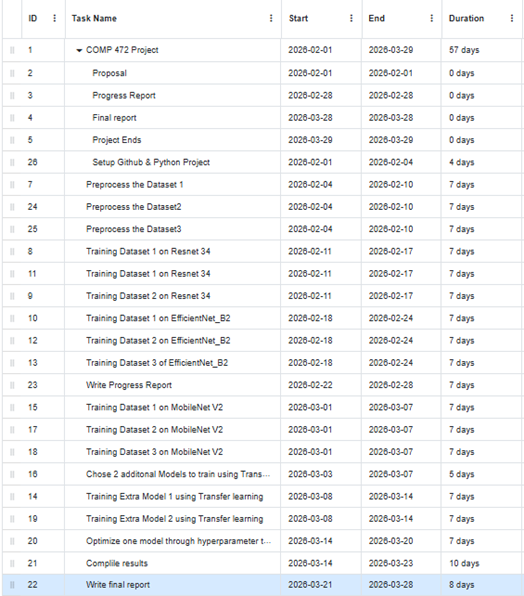
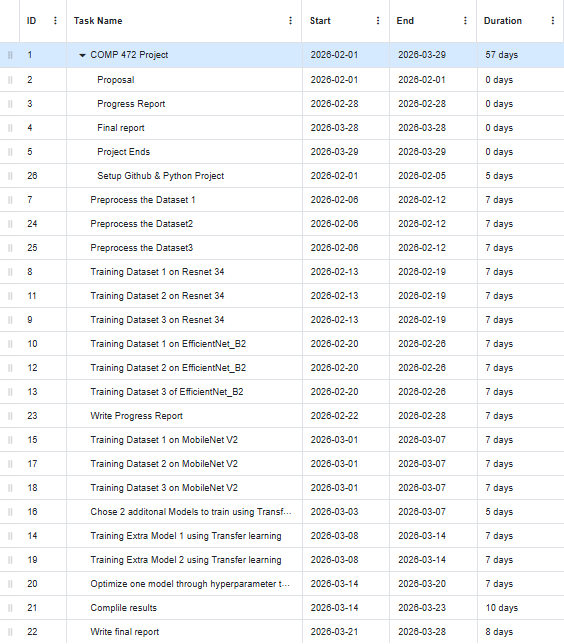
Add files via upload
Updated - non final - Proposal

diff --git a/Proposal/Proposal.tex b/Proposal/Proposal.tex
@@ -44,14 +44,14 @@
 
 
 %%%%%%%%% COMP 472 - Project  - PLEASE UPDATE
-\def\cvprPaperID{COMP 472 - Project} % *** Enter the CVPR Paper ID here
+\def\cvprPaperID{Classification of MRI images for brain tumor diagnosis} % *** Enter the CVPR Paper ID here
 \def\confName{Project Proposal}
 \def\confYear{2026}
 
 \begin{document}
 
 %%%%%%%%% COMP 472 - Project Proposal- PLEASE UPDATE
-\title{\ COMP 472 - Project Proposal}  % **** Enter the paper title here
+\title{Classification of MRI images for brain tumor diagnosis}  % **** Enter the paper title here
 
 
 \maketitle
@@ -59,30 +59,47 @@
 \appendix
 
 %%%%%%%%% BODY TEXT - ENTER YOUR RESPONSE BELOW
-\textbf{Team}
-Lucas Graham 40249532 - Dominique Proulx 40177566 - Valeriia Nikandrova 40157880 - Azmi Abidi 40248132 - Kalin Milanov 40179417
-
-
-
 %-------------------------------------------------------------------------
-
-\textbf{Problem Statement and Application.} Our team has selected the detection and classification of various brain tumor types from MRI images of the brain for our project. Although MRI technology is extremely effective at detecting brain tumors, early diagnosis of these ailments is challenging. Early symptoms of brain tumors often masquerade as more benign conditions, such as chronic headaches, seizures and changes in mental faculties like memory and concentration. Additionally, the slow growth of brain tumors over the course of many years makes them difficult to identify in the initial stages. 
-
-In general, catching cancerous growth early is essential for successful and lasting treatment of the disease. This is especially true for brain-related cancers, for which surgical remedies are complicated at advanced stages of tumor growth. An early detection system is an essential weapon in the war against brain cancer. In this project, we aim to evaluate the strengths and weaknesses of various computational neural network (CNN) architectures in identifying brain tumors. 
+\textbf{Problem Statement and Application.} Our team has selected the detection and classification of various brain tumor types from MRI images of the brain for our project. In this project, we aim to evaluate the strengths and weaknesses of various Convolutional Neural Network (CNN) architectures in identifying brain tumors. Although MRI technology is extremely effective at imaging brain tumors\cite{mri}, automated tumor classification presents several computational challenges. MRI scans exhibit significant variability in contrast, resolution, and acquisition protocols\cite{mri_variability}, which affects feature consistency across samples. Moreover, different tumor types often share similar visual characteristics, making inter-class discrimination difficult. The task is further complicated by class imbalance, limited dataset sizes for certain tumor categories, and intra-class variability in tumor shape, size, and location. These factors make brain tumor classification a demanding computer vision problem, requiring robust CNN architectures capable of learning discriminative features despite data heterogeneity and subtle visual differences.
 
 %------------------------------------------------------------------------
-\textbf{Image Dataset Selection.} We selected three publicly available brain MRI image datasets that differ significantly in size and number of classes to enable a progressive evaluation of CNN architectures. The Brain MRI Dataset from UniqueData on huggingface\cite{dataset1} contains 275 images across 10 classes, representing a small dataset with relatively fine-grained labels, making it suitable for testing model behavior under limited data conditions. The next dataset\cite{dataset2} provided by Fernando Feltrin\cite{Feltrin} includes approximately 4,500 images distributed over 44 tumor-related classes, introducing high class diversity and increased inter-class similarity, which raises the classification difficulty.
+\textbf{Image Dataset Selection.} We selected three publicly available brain MRI image datasets that differ in size and number of classes to enable a progressive evaluation of CNN architectures.
+\begin{table}[h]
+				\vspace{-4mm}
+	\centering
+	\small
+	\setlength{\tabcolsep}{4pt}
+	\renewcommand{\arraystretch}{0.9}
+	\begin{tabular}{|l|c|c|c|p{2cm}|}
+		\hline
+		Dataset & Images & Classes & Images/Class & Image Size \\
+		\hline
+		1\cite{dataset1} & 3264 & 4 & 826/822/395/827 & Mixed, max 630×630 \\
+		\hline
+		2\cite{dataset2} & 7023 & 4 & 1321/1339/1595/1457 & 512×512 \\
+		\hline
+		3\cite{dataset3} & 4478 & 44 & 17--272 & Mixed, max 630×630 \\
+		\hline
+	\end{tabular}
+	\caption{Dataset overview}
+	\vspace{-4mm}
+\end{table}
+The first dataset, Brain Tumor Classification (MRI)\cite{dataset1}, and the second dataset, Brain Tumor MRI Dataset\cite{dataset2}, both categorize images into 4 classes (Glioma, Meningioma, Pituitary tumor, and No Tumor), providing meaningful common brain tumor categories\cite{commonbraintumor} with varying image quantities. While the first dataset contains a limited number of images, the second offers more than double the volume, enabling us to examine how CNN models perform with identical class structures but different dataset sizes.
  \begin{wrapfigure}{l}{0.40\columnwidth}  % r = right side, l = left side
+ 	\vspace{-14pt}
 	\centering
 	\includegraphics[width=0.45\columnwidth]{datasetcomparison.jpg}
 	\caption{Comparison of dataset images}
 	\label{fig:yourlabel}
-	   \vspace{-12pt}
-\end{wrapfigure} The Brain Tumor MRI Dataset\cite{dataset3} by Masoud Nickparvar\cite{masoud} consists of 7,023 MRI images categorized into 4 classes (Glioma, Meningioma, Pituitary tumor, and No Tumor), providing a larger dataset with fewer but clinically meaningful categories and greater image variability. All datasets use standard image formats (JPG/PNG) with varying resolutions that will be normalized during preprocessing. This progression from a very small multi-class dataset, to a medium-sized highly fine-grained dataset, to a larger clinically structured multi-class dataset creates a controlled framework to analyze how CNN models of different capacities perform as dataset scale and class granularity change.
+	\vspace{-12pt}
+\end{wrapfigure} 
+ The third dataset\cite{dataset3}, despite having fewer total images ,introduces a higher class diversity with 44 different types of brain tumors, lesions, and normal brain tissue to compare. Each were captured using different MRI sequences, which significantly raises the classification difficulty. This progression from a small 4-class dataset, to a larger 4-class dataset, to a medium-sized highly fine-grained 44-class dataset creates a controlled framework to analyze how CNN models of different capacities perform as dataset scale and class granularity change.
 
 
 %-------------------------------------------------------------------------
-\textbf{Possible Methodology.} Given that the datasets come from different sources and have inconsistent characteristics, we preprocess them into a standardized format. \cite{preprocess} Since we are using PyTorch for this project, all of our images will need to be converted into tensors of the same size\cite{datasetsize} and dimensions, which is the fundamental data type used in the PyTorch library.
+\textbf{Possible Methodology.}Given the datasets come from different sources and vary in size, format and image resolution, we preprocess them into standardized format. To prevent overfitting due to the small size of the available datasets, we apply data augmentation techniques to  increase the number of images used to train the model by transforming the dataset's images.\cite{dataaugment} These transformation includes geometric transformations such as small rotations, cropping, zooming in , and color space transformations like changing brightness.\cite{datacamp_augmentation}
+Since we are using PyTorch for this project, all of our images will need to converted into tensors of the same size 224x224 and dimension, which is the fundamental data type used in the PyTorch library. [Source]
+
 
 The choices in CNN architectures allow us to observe how different models perform depending on their size and the complexity of their datasets, while also ensuring that the models can be trained within the computational resources of average GPUs. MobileNet V2\cite{mobilenet} is a lightweight architecture design for low-resource environments, making it ideal for evaluating the performance of compact models on medical imaging. ResNet-34\cite{resnet} is a larger architecture that enables stable training thanks to its residual connections. EfficientNet-B2\cite{efficientnet} is medium sized compared to the aforementioned architectures. We can expect the three CNN architectures to show varying levels of performance depending on the dataset’s complexity. Since MobileNet V2 is the lightest model, it is expected to train quickly on the smallest dataset, but may struggle with the biggest dataset due to its limited capacity. ResNet-34 could provide a solid balance between accuracy and computational cost, likely outperforming MobileNet on the larger datasets. Despite EfficentNet-B2 being lighter than ResNet in terms of FLOPs and parameter counts, it uses a compound scaling strategy to balance depth, width and resolution, and should therefore offer the best overall performance.
 By studying how model capacity, dataset complexity, and transfer learning influence performance, this project could help identify which architectures are best suited for MRI-based tumor classification given different resource constraints. Furthermore, this research could guide the design of more reliable diagnostic tools and showcase the trade-offs between lightweight and larger architectures.
@@ -90,23 +107,21 @@ By studying how model capacity, dataset complexity, and transfer learning influe
 Several metrics will be used to evaluate the performance of the CNN architectures. Accuracy measures the proportion of correct predictions across all classes. Precision measures the correctness when predicting a specific class, helping to detect false positives. Recall measures how many images that belong to a specific class were correctly predicted so as to detect false negatives. The F1-score quantifies the balance between precision and recall. Mean Average Precision (MAP) assesses whether a model is consistently correct about each given class, which is especially helpful for datasets with multiple classes where accuracy alone is less informative due to less detectable or rarer classes. Loss curves track the inaccuracy of a model over time to observe the learning rate across its training.\newpage
 
 
-
-
 \newpage
 %------------------------------------------------------------------------
 \noindent\textbf{Project Gantt Chart} \\
-\noindent\href{https://1drv.ms/u/c/245f806ee8e62c91/IQAAAF37pRNSTa8i4gDrTeaiAWHvFKj_g68jTqpUX0hbesg?e=5ZMgTB}{Gantt Chart File}
+\noindent\href{https://1drv.ms/i/c/245f806ee8e62c91/IQDAWdYL6_TwTbmw-qErISu8AeUMVQ0f43GwPqAy-swBEaQ?e=i2Yo0U}{Gantt Chart File}
 
 \vspace{10pt}
 
 \begin{center}
-	\includegraphics[width=0.75\textwidth]{COMP472_Project_Gantt.png}
+	\includegraphics[width=1.00\textwidth]{COMP472_Project_Gantt.png}
 	\captionof{figure}{COMP 472 - Group C Project Gantt Chart}
 	\label{fig:fullwidth}
 	
 	\vspace{10pt}
 	
-	\includegraphics[width=0.45\textwidth]{COMP472_Project_Gantt-2.png}
+	\includegraphics[width=0.60\textwidth]{COMP472_Project_Gantt-2.png}
 	\captionof{figure}{COMP 472 - Group C Project Gantt Chart Details}
 	\label{fig:fullwidth2}
 \end{center}
